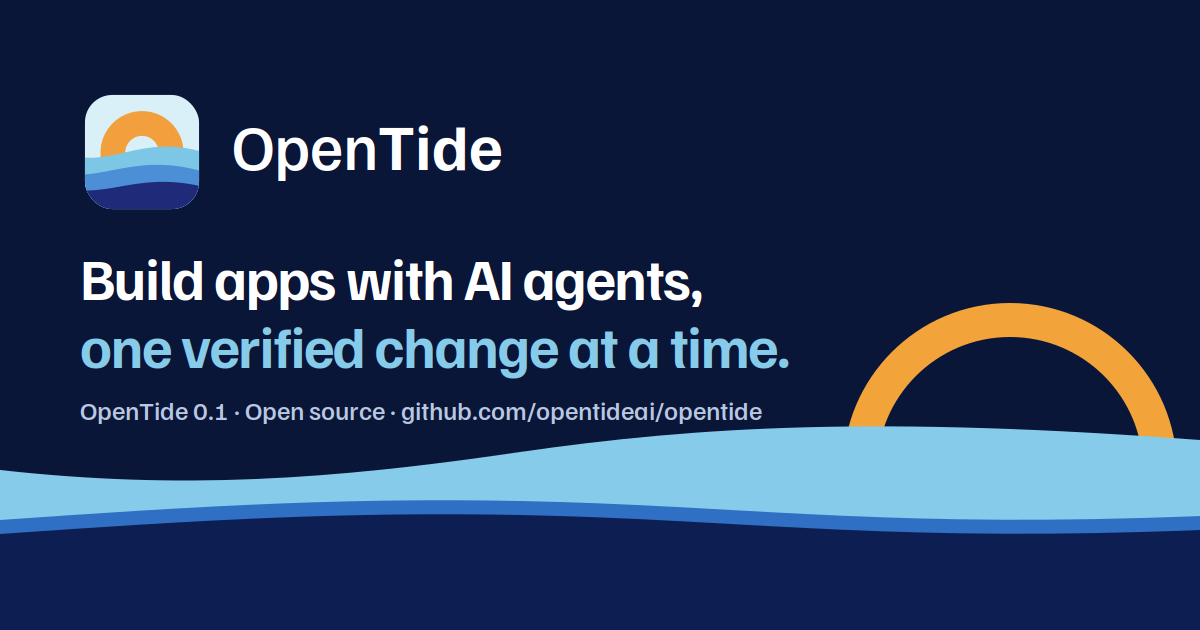
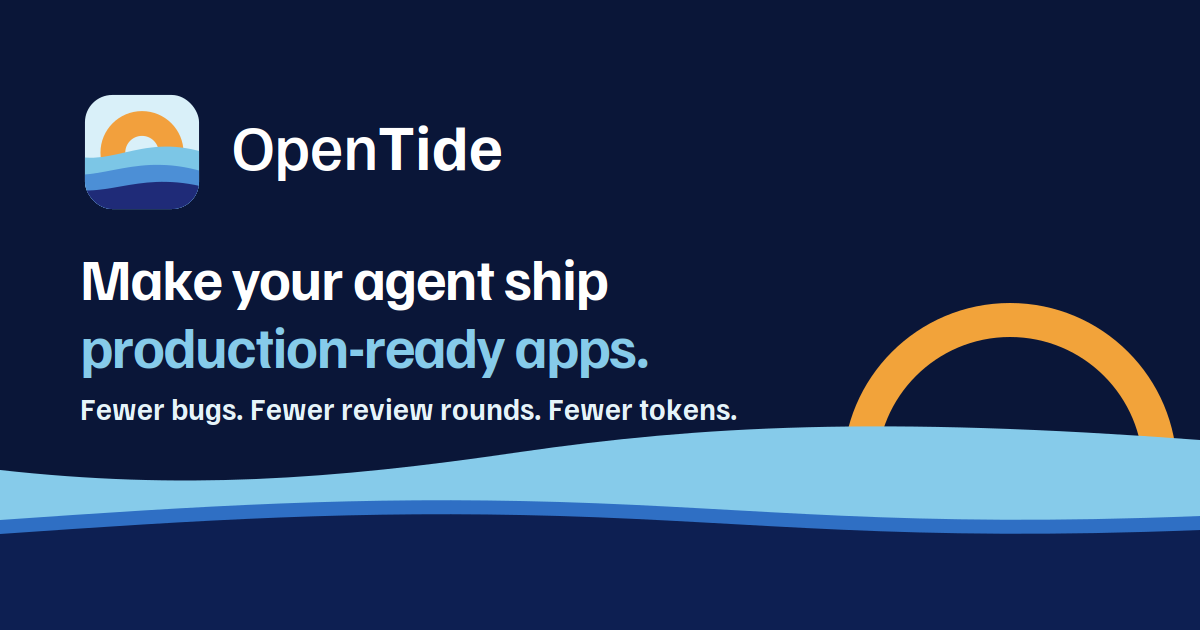
Hero: Make your agent ship production-ready apps. Fewer bugs. Fewer review rounds. Fewer tokens.
Title, social image and share text follow the new headline.

Claude-Session: https://claude.ai/code/session_01RamRwiWbVVTfMMu2vUZeS6

Changed region(s): [[0.0617, 0.3921, 0.6475, 0.6032], [0.0617, 0.6333, 0.6475, 0.6937]]

diff --git a/index.html b/index.html
@@ -3,7 +3,7 @@
 <head>
 <meta charset="utf-8" />
 <meta name="viewport" content="width=device-width, initial-scale=1, viewport-fit=cover" />
-<title>OpenTide &amp; Tide · The agent-native web framework and IDE</title>
+<title>OpenTide · Make your agent ship production-ready apps</title>
 <meta name="description" content="OpenTide is the agent-native web framework: your app runs live, AI agents change it through gated MCP tools, and every change is verified before it commits. Open source (Apache-2.0); connect Claude Code, Codex, Cursor or any MCP agent. Tide, the IDE reinvented for AI, is coming soon." />
 <meta name="keywords" content="OpenTide, Tide, AI agents, web framework, AI IDE, MCP, Model Context Protocol, TypeScript, agentic coding, verified code changes" />
 <meta name="author" content="Adrian Salceanu" />
@@ -13,18 +13,18 @@
 <meta property="og:site_name" content="OpenTide" />
 <meta property="og:locale" content="en_GB" />
 <meta property="og:url" content="https://opentide.ai/" />
-<meta property="og:title" content="OpenTide · The agent-native web framework" />
-<meta property="og:description" content="Build apps with AI agents, one verified change at a time. OpenTide, the agent-native web framework, is out and open source. Tide, the IDE, is coming soon." />
+<meta property="og:title" content="OpenTide · Make your agent ship production-ready apps" />
+<meta property="og:description" content="Fewer bugs. Fewer review rounds. Fewer tokens. OpenTide is the agent-native web framework: connect the coding agent you already use, and nothing counts as done until the server has run the tests that prove it. Open source. Tide, the IDE, is coming soon." />
 <meta property="og:image" content="https://opentide.ai/img/og.png" />
 <meta property="og:image:type" content="image/png" />
 <meta property="og:image:width" content="1200" />
 <meta property="og:image:height" content="630" />
-<meta property="og:image:alt" content="OpenTide: Build apps with AI agents, one verified change at a time." />
+<meta property="og:image:alt" content="OpenTide: Make your agent ship production-ready apps. Fewer bugs. Fewer review rounds. Fewer tokens." />
 <meta name="twitter:card" content="summary_large_image" />
-<meta name="twitter:title" content="OpenTide · The agent-native web framework" />
-<meta name="twitter:description" content="Build apps with AI agents, one verified change at a time. OpenTide, the agent-native web framework, is out and open source. Tide, the IDE, is coming soon." />
+<meta name="twitter:title" content="OpenTide · Make your agent ship production-ready apps" />
+<meta name="twitter:description" content="Fewer bugs. Fewer review rounds. Fewer tokens. OpenTide is the agent-native web framework: connect the coding agent you already use, and nothing counts as done until the server has run the tests that prove it. Open source. Tide, the IDE, is coming soon." />
 <meta name="twitter:image" content="https://opentide.ai/img/og.png" />
-<meta name="twitter:image:alt" content="OpenTide: Build apps with AI agents, one verified change at a time." />
+<meta name="twitter:image:alt" content="OpenTide: Make your agent ship production-ready apps. Fewer bugs. Fewer review rounds. Fewer tokens." />
 <link rel="icon" href="/favicon.ico" sizes="any" />
 <link rel="icon" href="/favicon.svg" type="image/svg+xml" />
 <link rel="icon" href="/favicon-32.png" type="image/png" sizes="32x32" />
@@ -144,10 +144,14 @@ p{margin:0}
 .status .dot{width:8px;height:8px;border-radius:50%;background:var(--amber);box-shadow:0 0 0 0 rgba(242,163,58,.6);animation:pulse 2.4s ease-out infinite}
 @keyframes pulse{0%{box-shadow:0 0 0 0 rgba(242,163,58,.55)}70%{box-shadow:0 0 0 10px rgba(242,163,58,0)}100%{box-shadow:0 0 0 0 rgba(242,163,58,0)}}
 @media (prefers-reduced-motion: reduce){.status .dot{animation:none}}
-.hero h1{font-size:clamp(40px,6.2vw,76px);font-weight:600;color:#fff;letter-spacing:-.035em;line-height:1.02}
+.hero h1{font-size:clamp(32px,4.7vw,62px);font-weight:600;color:#fff;letter-spacing:-.035em;line-height:1.02}
 .hero h1 em{font-style:normal;color:var(--surf)}
 .hero .lede{margin-top:24px;font-size:clamp(17px,1.6vw,20px);color:#B8C8E2;max-width:34em}
 .hero .lede b{color:#fff;font-weight:600}
+.hero .promise{margin-top:20px;font-size:clamp(19px,2.1vw,25px);font-weight:600;color:#fff;letter-spacing:-.015em;line-height:1.3}
+.hero .promise+.lede{margin-top:16px}
+.hero h1 .nw,.hero .promise .nw{white-space:nowrap}
+.hero .promise{text-wrap:balance}
 
 .pair{display:grid;gap:14px;align-self:center}
 .pair a{display:flex;gap:16px;align-items:center;text-decoration:none;padding:16px 18px;border-radius:18px;background:rgba(134,203,234,.07);border:1px solid rgba(134,203,234,.16);transition:background .2s,border-color .2s}
@@ -320,8 +324,9 @@ footer .links{display:flex;gap:22px;flex-wrap:wrap}
     <div class="hero-inner">
       <div>
         <div class="status eyebrow"><span class="dot" aria-hidden="true"></span>OpenTide 0.1 is out · open source</div>
-        <h1>Build apps with AI agents, <em>one verified change</em> at a time.</h1>
-        <p class="lede"><b>OpenTide</b> is the agent-native web framework, open source and available now. Connect the coding agent you already use and it works on your live, running app through gated tools, with every change checked before it commits. <b>Tide</b>, the IDE reinvented for AI, is built on top of it and coming soon. TypeScript today, Python support coming next.</p>
+        <h1>Make your agent ship <span class="nw"><em>production-ready apps</em>.</span></h1>
+        <p class="promise"><span class="nw">Fewer bugs.</span> <span class="nw">Fewer review rounds.</span> <span class="nw">Fewer tokens.</span></p>
+        <p class="lede"><b>OpenTide</b> is the agent-native web framework, open source and available now. Connect the coding agent you already use, and it builds inside your live, running app. Nothing counts as done until the server has run the tests that prove it, and every change arrives with its plan and evidence. <b>Tide</b>, the IDE reinvented for AI, is built on top of it and coming soon. TypeScript today, Python support coming next.</p>
         <div class="hero-cta">
           <div class="install"><code id="cmd-hero"><span class="pr">$</span>curl -fsSL https://github.com/opentideai/opentide/releases/latest/download/install.sh | sh</code><button type="button" data-copy="cmd-hero">Copy</button></div>
           <div class="btns">

diff --git a/src/body.html b/src/body.html
@@ -58,10 +58,14 @@ p{margin:0}
 .status .dot{width:8px;height:8px;border-radius:50%;background:var(--amber);box-shadow:0 0 0 0 rgba(242,163,58,.6);animation:pulse 2.4s ease-out infinite}
 @keyframes pulse{0%{box-shadow:0 0 0 0 rgba(242,163,58,.55)}70%{box-shadow:0 0 0 10px rgba(242,163,58,0)}100%{box-shadow:0 0 0 0 rgba(242,163,58,0)}}
 @media (prefers-reduced-motion: reduce){.status .dot{animation:none}}
-.hero h1{font-size:clamp(40px,6.2vw,76px);font-weight:600;color:#fff;letter-spacing:-.035em;line-height:1.02}
+.hero h1{font-size:clamp(32px,4.7vw,62px);font-weight:600;color:#fff;letter-spacing:-.035em;line-height:1.02}
 .hero h1 em{font-style:normal;color:var(--surf)}
 .hero .lede{margin-top:24px;font-size:clamp(17px,1.6vw,20px);color:#B8C8E2;max-width:34em}
 .hero .lede b{color:#fff;font-weight:600}
+.hero .promise{margin-top:20px;font-size:clamp(19px,2.1vw,25px);font-weight:600;color:#fff;letter-spacing:-.015em;line-height:1.3}
+.hero .promise+.lede{margin-top:16px}
+.hero h1 .nw,.hero .promise .nw{white-space:nowrap}
+.hero .promise{text-wrap:balance}
 
 .pair{display:grid;gap:14px;align-self:center}
 .pair a{display:flex;gap:16px;align-items:center;text-decoration:none;padding:16px 18px;border-radius:18px;background:rgba(134,203,234,.07);border:1px solid rgba(134,203,234,.16);transition:background .2s,border-color .2s}
@@ -232,8 +236,9 @@ footer .links{display:flex;gap:22px;flex-wrap:wrap}
     <div class="hero-inner">
       <div>
         <div class="status eyebrow"><span class="dot" aria-hidden="true"></span>OpenTide 0.1 is out · open source</div>
-        <h1>Build apps with AI agents, <em>one verified change</em> at a time.</h1>
-        <p class="lede"><b>OpenTide</b> is the agent-native web framework, open source and available now. Connect the coding agent you already use and it works on your live, running app through gated tools, with every change checked before it commits. <b>Tide</b>, the IDE reinvented for AI, is built on top of it and coming soon. TypeScript today, Python support coming next.</p>
+        <h1>Make your agent ship <span class="nw"><em>production-ready apps</em>.</span></h1>
+        <p class="promise"><span class="nw">Fewer bugs.</span> <span class="nw">Fewer review rounds.</span> <span class="nw">Fewer tokens.</span></p>
+        <p class="lede"><b>OpenTide</b> is the agent-native web framework, open source and available now. Connect the coding agent you already use, and it builds inside your live, running app. Nothing counts as done until the server has run the tests that prove it, and every change arrives with its plan and evidence. <b>Tide</b>, the IDE reinvented for AI, is built on top of it and coming soon. TypeScript today, Python support coming next.</p>
         <div class="hero-cta">
           <div class="install"><code id="cmd-hero"><span class="pr">$</span>curl -fsSL https://github.com/opentideai/opentide/releases/latest/download/install.sh | sh</code><button type="button" data-copy="cmd-hero">Copy</button></div>
           <div class="btns">

diff --git a/src/build.py b/src/build.py
@@ -7,7 +7,7 @@ head='''<!doctype html>
 <head>
 <meta charset="utf-8" />
 <meta name="viewport" content="width=device-width, initial-scale=1, viewport-fit=cover" />
-<title>OpenTide &amp; Tide · The agent-native web framework and IDE</title>
+<title>OpenTide · Make your agent ship production-ready apps</title>
 <meta name="description" content="OpenTide is the agent-native web framework: your app runs live, AI agents change it through gated MCP tools, and every change is verified before it commits. Open source (Apache-2.0); connect Claude Code, Codex, Cursor or any MCP agent. Tide, the IDE reinvented for AI, is coming soon." />
 <meta name="keywords" content="OpenTide, Tide, AI agents, web framework, AI IDE, MCP, Model Context Protocol, TypeScript, agentic coding, verified code changes" />
 <meta name="author" content="Adrian Salceanu" />
@@ -17,18 +17,18 @@ head='''<!doctype html>
 <meta property="og:site_name" content="OpenTide" />
 <meta property="og:locale" content="en_GB" />
 <meta property="og:url" content="https://opentide.ai/" />
-<meta property="og:title" content="OpenTide · The agent-native web framework" />
-<meta property="og:description" content="Build apps with AI agents, one verified change at a time. OpenTide, the agent-native web framework, is out and open source. Tide, the IDE, is coming soon." />
+<meta property="og:title" content="OpenTide · Make your agent ship production-ready apps" />
+<meta property="og:description" content="Fewer bugs. Fewer review rounds. Fewer tokens. OpenTide is the agent-native web framework: connect the coding agent you already use, and nothing counts as done until the server has run the tests that prove it. Open source. Tide, the IDE, is coming soon." />
 <meta property="og:image" content="https://opentide.ai/img/og.png" />
 <meta property="og:image:type" content="image/png" />
 <meta property="og:image:width" content="1200" />
 <meta property="og:image:height" content="630" />
-<meta property="og:image:alt" content="OpenTide: Build apps with AI agents, one verified change at a time." />
+<meta property="og:image:alt" content="OpenTide: Make your agent ship production-ready apps. Fewer bugs. Fewer review rounds. Fewer tokens." />
 <meta name="twitter:card" content="summary_large_image" />
-<meta name="twitter:title" content="OpenTide · The agent-native web framework" />
-<meta name="twitter:description" content="Build apps with AI agents, one verified change at a time. OpenTide, the agent-native web framework, is out and open source. Tide, the IDE, is coming soon." />
+<meta name="twitter:title" content="OpenTide · Make your agent ship production-ready apps" />
+<meta name="twitter:description" content="Fewer bugs. Fewer review rounds. Fewer tokens. OpenTide is the agent-native web framework: connect the coding agent you already use, and nothing counts as done until the server has run the tests that prove it. Open source. Tide, the IDE, is coming soon." />
 <meta name="twitter:image" content="https://opentide.ai/img/og.png" />
-<meta name="twitter:image:alt" content="OpenTide: Build apps with AI agents, one verified change at a time." />
+<meta name="twitter:image:alt" content="OpenTide: Make your agent ship production-ready apps. Fewer bugs. Fewer review rounds. Fewer tokens." />
 <link rel="icon" href="/favicon.ico" sizes="any" />
 <link rel="icon" href="/favicon.svg" type="image/svg+xml" />
 <link rel="icon" href="/favicon-32.png" type="image/png" sizes="32x32" />
@@ -105,9 +105,9 @@ og=f'''<svg xmlns="http://www.w3.org/2000/svg" width="1200" height="630" viewBox
 <path d="M0 534 C 200 520, 360 510, 560 516 C 760 522, 900 542, 1200 530 L1200 630 L0 630Z" fill="#0D1F52"/>
 <g transform="translate(80,90) scale(0.62)">{inner}</g>
 <text x="232" y="170" font-family="Familjen Grotesk" font-size="64" fill="#fff"><tspan font-weight="400">Open</tspan><tspan font-weight="600">Tide</tspan></text>
-<text x="80" y="300" font-family="Familjen Grotesk" font-weight="600" font-size="58" fill="#fff" letter-spacing="-1.5">Build apps with AI agents,</text>
-<text x="80" y="368" font-family="Familjen Grotesk" font-weight="600" font-size="58" fill="#86CBEA" letter-spacing="-1.5">one verified change at a time.</text>
-<text x="80" y="420" font-family="Familjen Grotesk" font-size="26" fill="#B8C8E2">OpenTide 0.1 · Open source · github.com/opentideai/opentide</text>
+<text x="80" y="300" font-family="Familjen Grotesk" font-weight="600" font-size="58" fill="#fff" letter-spacing="-1.5">Make your agent ship</text>
+<text x="80" y="368" font-family="Familjen Grotesk" font-weight="600" font-size="58" fill="#86CBEA" letter-spacing="-1.5">production-ready apps.</text>
+<text x="80" y="420" font-family="Familjen Grotesk" font-weight="600" font-size="30" fill="#E6F4FA">Fewer bugs. Fewer review rounds. Fewer tokens.</text>
 </svg>'''
 cairosvg.svg2png(bytestring=og.encode(),write_to='img/og.png')
 open('CNAME','w').write('opentide.ai\n')
